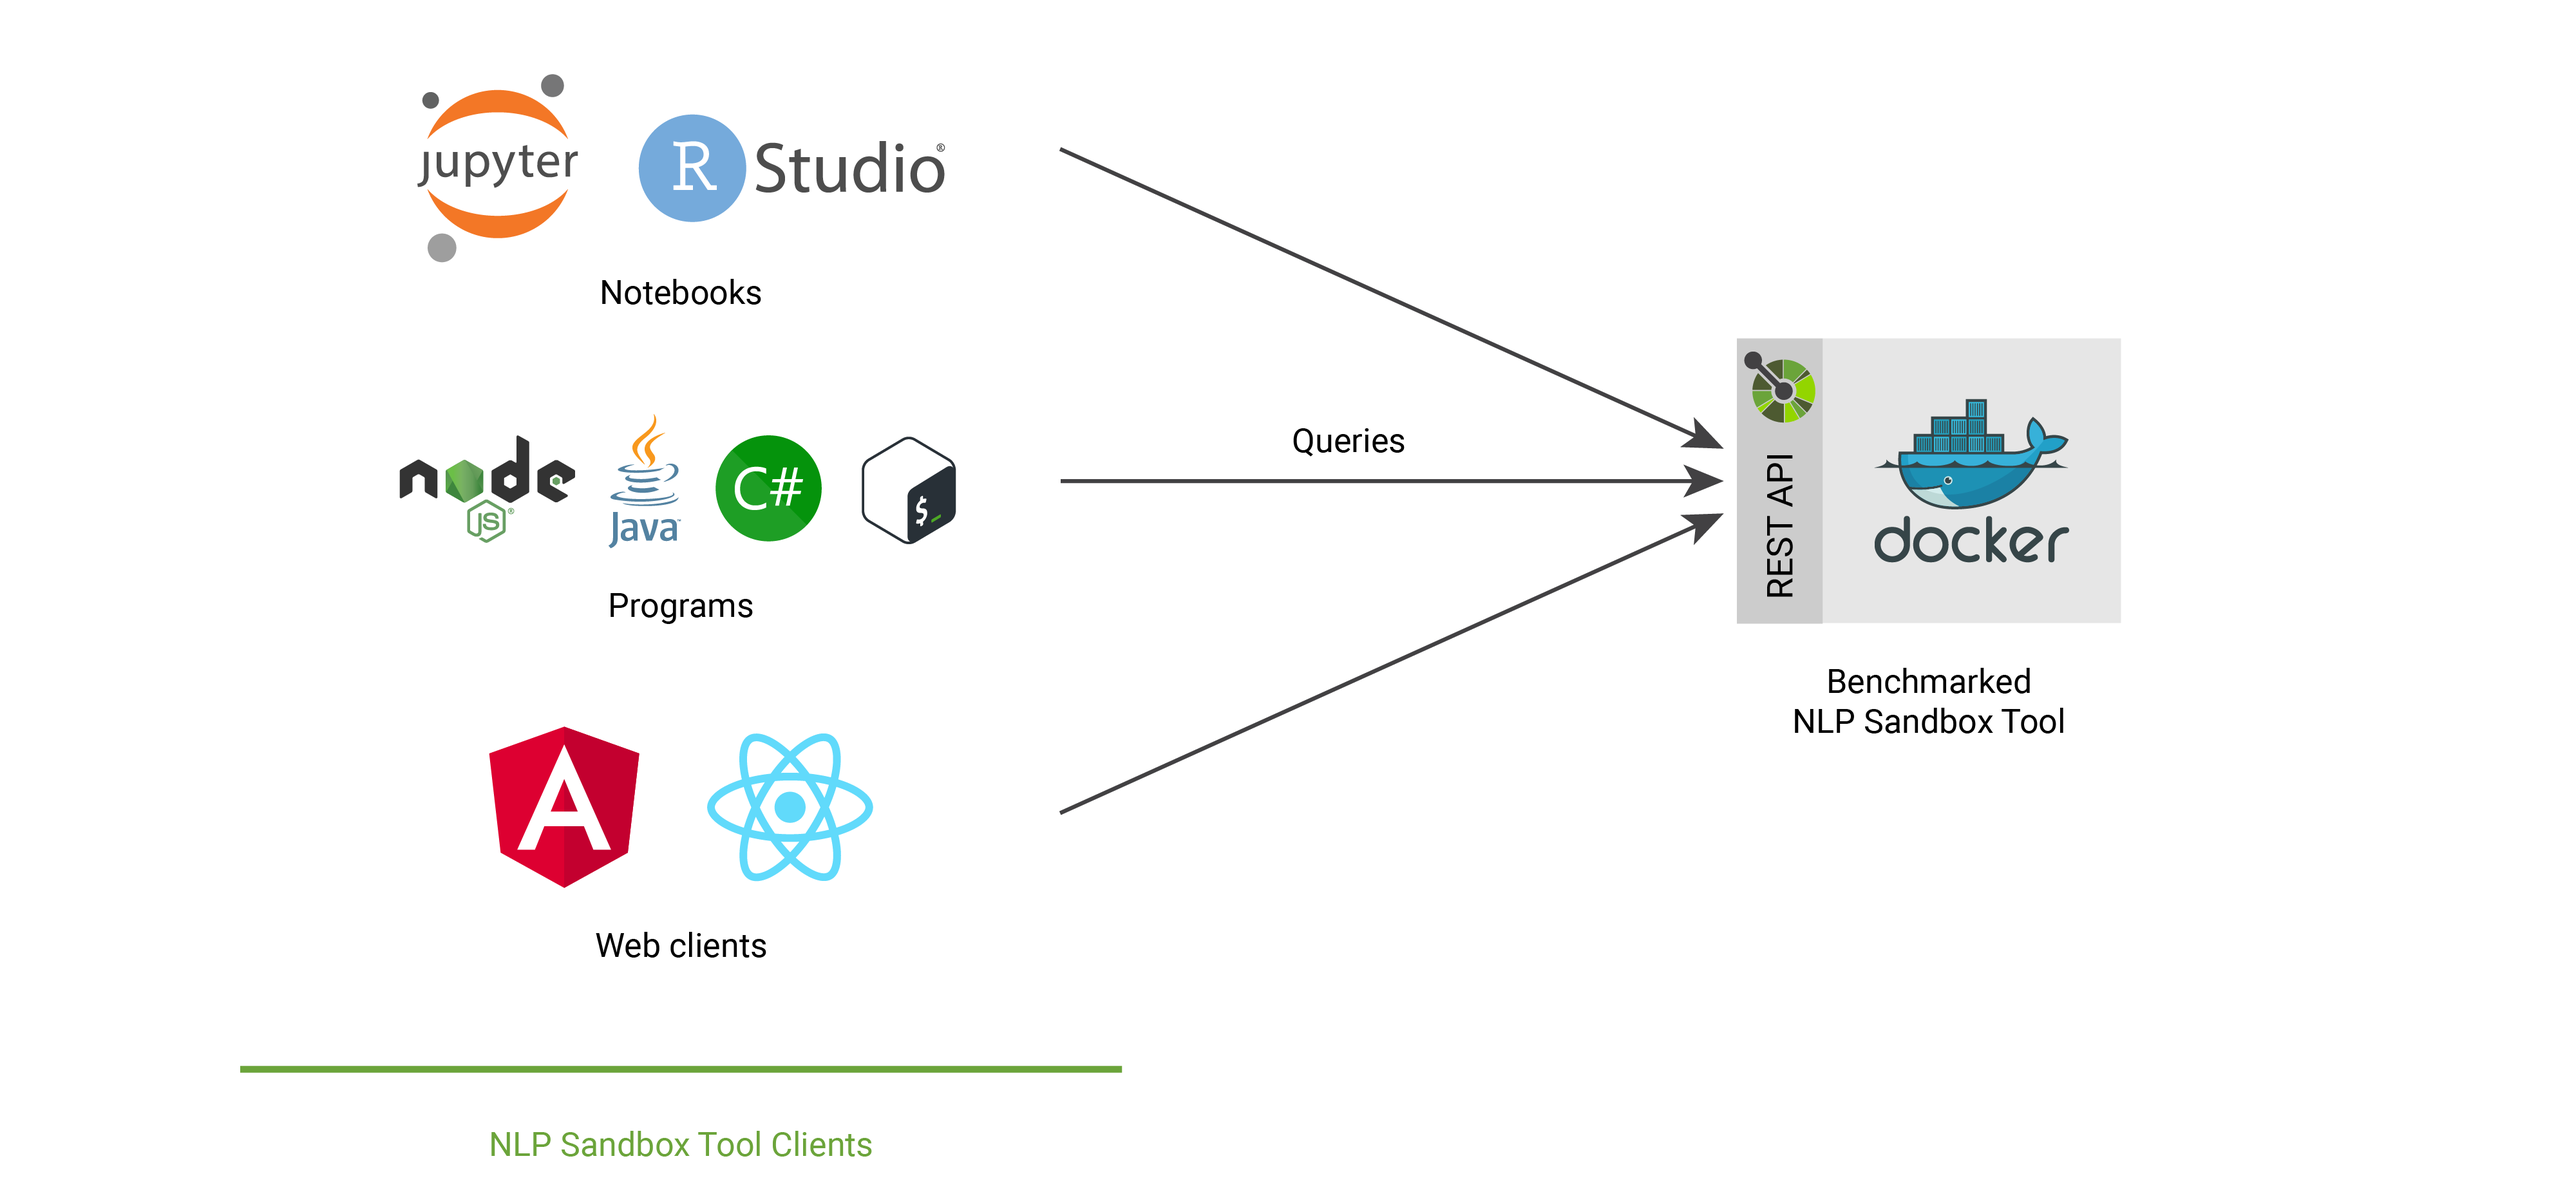
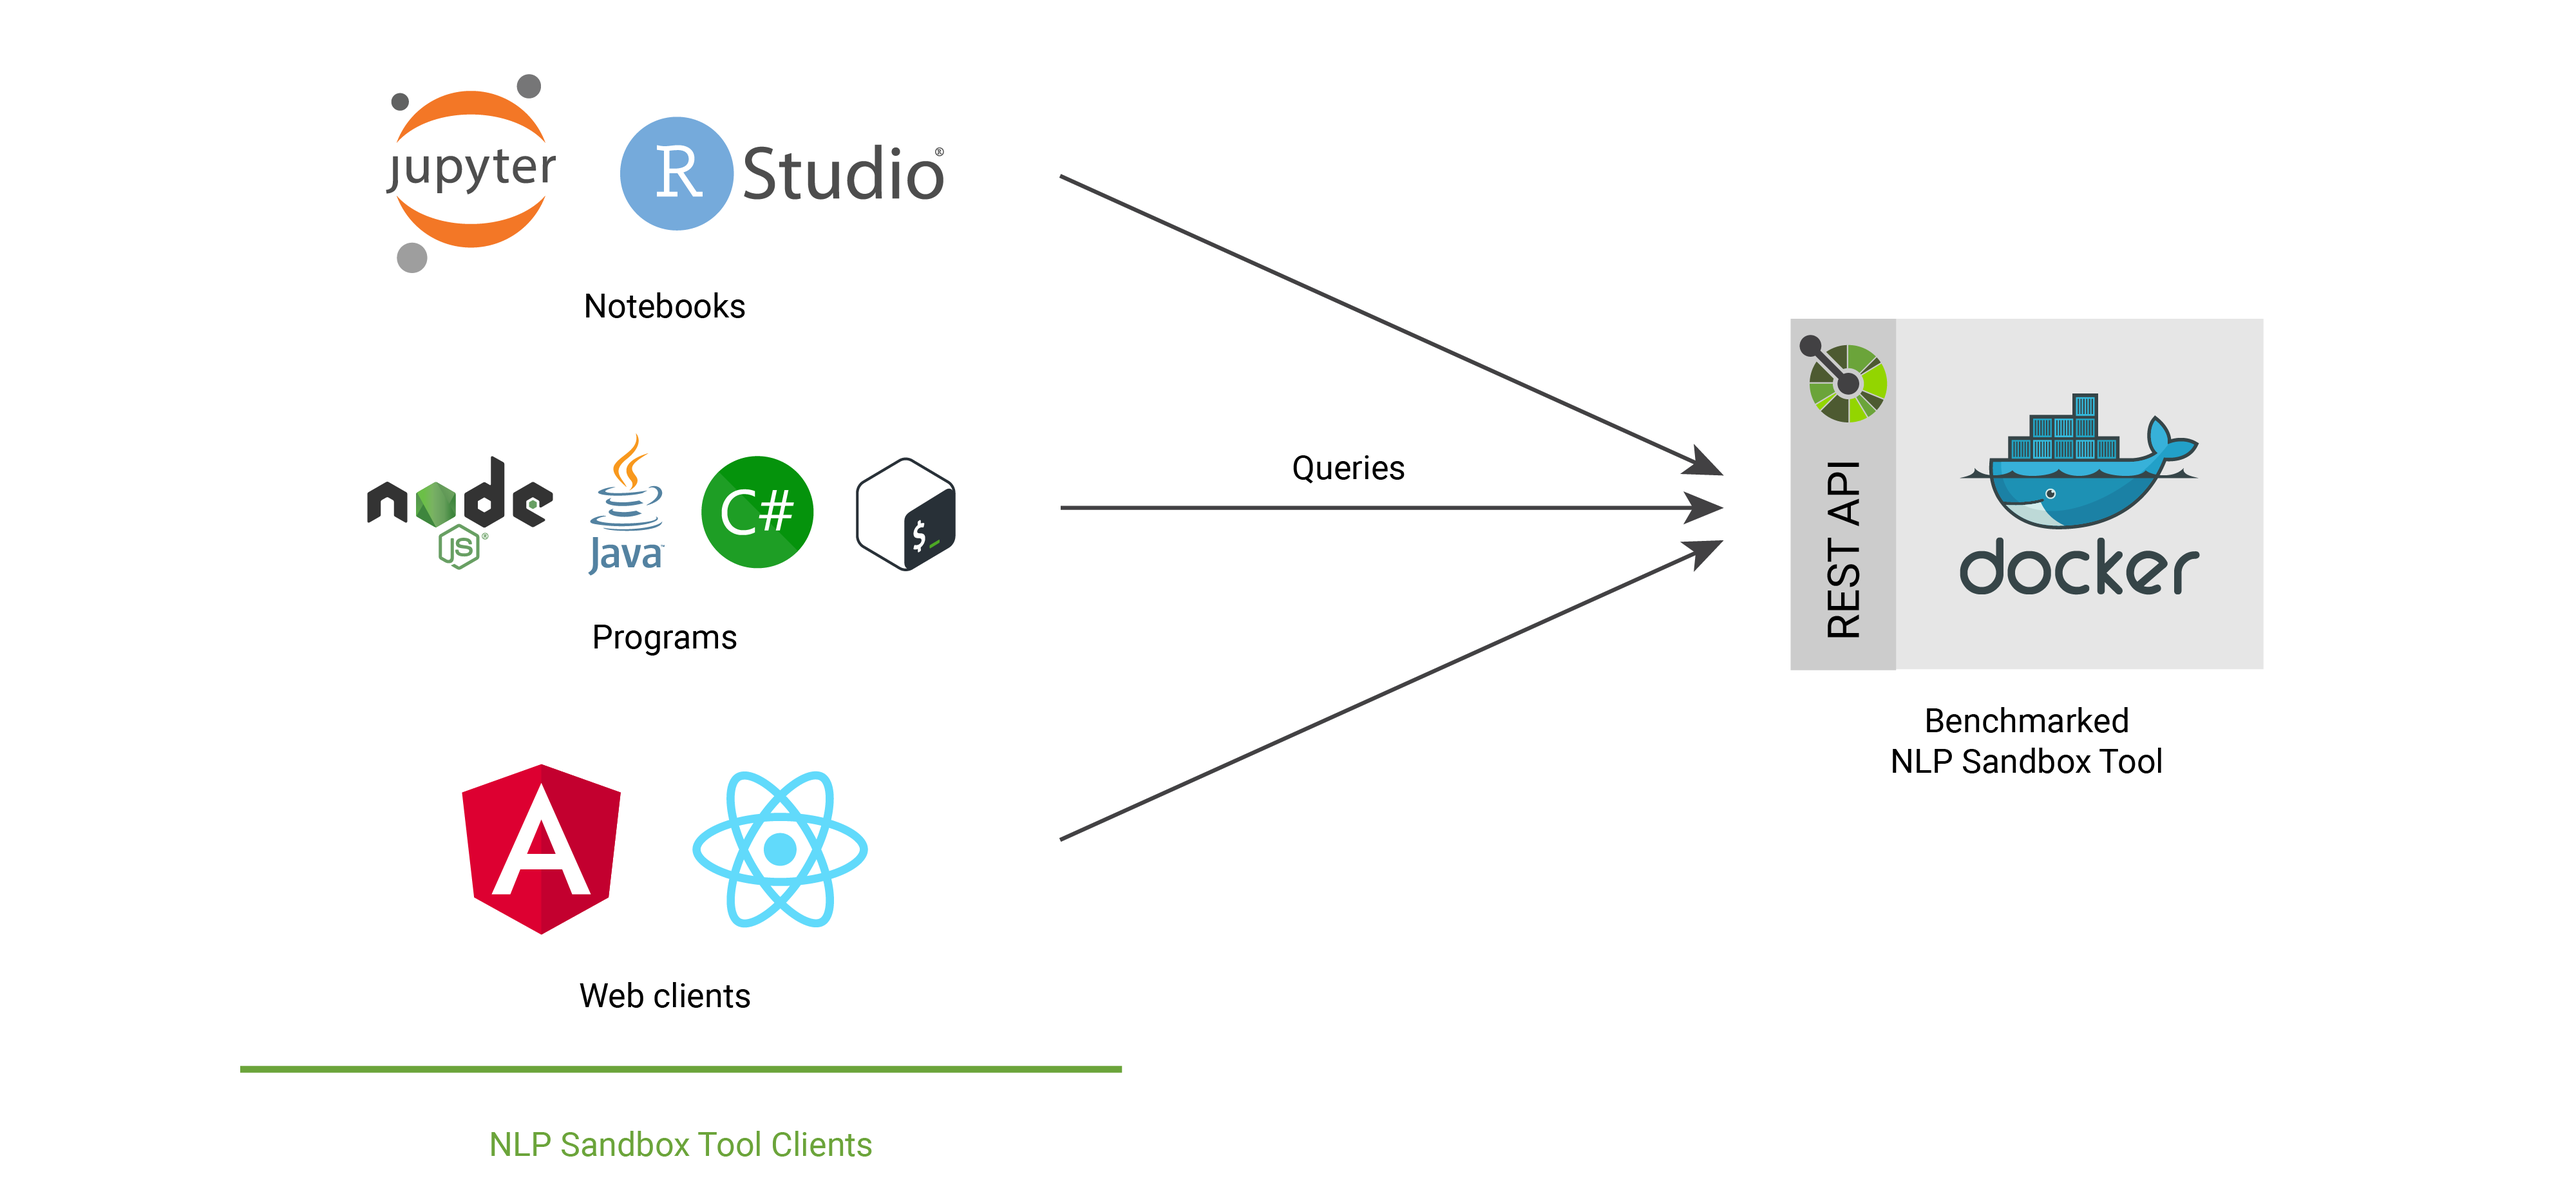
Add incentives to NLP Users page

diff --git a/wiki/608957-NLPUsers.md b/wiki/608957-NLPUsers.md
@@ -18,9 +18,18 @@ One approach taken by this project is the promotion of coding standard that help
 
 The adoption of the OpenAPI standard to describe data schemas and tool input and output specifications is a key element of the design of the NLP Sandbox that contributes to the development of production-ready tools. Relying on the OpenAPI specification enables the development of API services (tools) that are cloud-friendly. The tools benchmarked in the NLP Sandbox can then be deployed to the cloud environment of your organization or on your own computer. You only need to have [Docker] installed to deploy a tool.
 
-TODO: Add image client <-> tool
+![NLP Sandbox Clients]
 
 Since all the tools submitted to a specific tasks implement the same specification, it is possible to develop clients in different programming languages (e.g. Python, Java, R) that interact with them. Examples of clients include the [NLP Sandbox Python Client] that can interact with any tools submitted to the NLP Sandbox and the [NLP Sandbox PHI Deidentifier] (React web client) that can interact with PHI deidentifier tools.
+
+### Incentives
+
+Below is a non-exhaustive list of benefits when using NLP Sandbox:
+
+- Easily identify the best-performing tool from the leaderboards.
+- The tool that you use is the tool that has been benchmarked.
+- Develop your own client (web clients, notebooks, programs) using the programming language/framework of your choice or use a client developed by the community.
+- Because all the tools submitted to a given NLP Sandbox task implements the same OpenAPI specification (for a given specification version), you can easily swap one tool for another.
 
 ### Deploying an NLP Sandbox tool
 
@@ -127,7 +136,7 @@ Note that the team who submits a tool for evaluation can change the the sharing 
 {row}
 
 <!-- Images -->
-
+[NLP Sandbox Clients]: https://github.com/nlpsandbox/nlpsandbox-website-synapse/raw/staging/images/nlpsandbox-clients.png
 [Date Annotator Example UI Try It Out]: https://github.com/nlpsandbox/nlpsandbox-website-synapse/raw/staging/images/tools/date-annotator-example-ui-try-it-out.png
 
 <!-- Links -->
